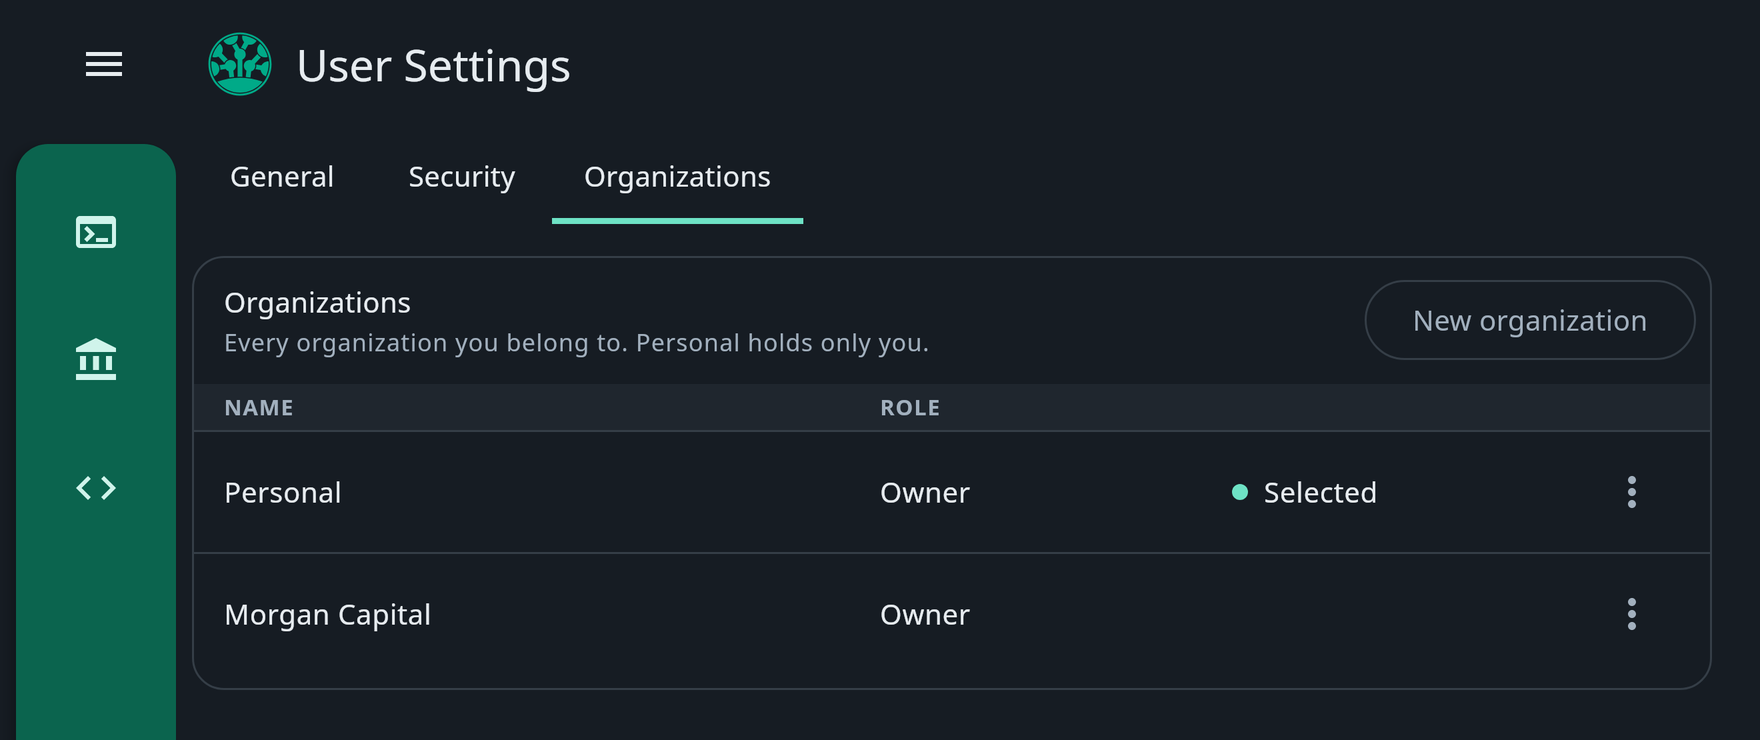
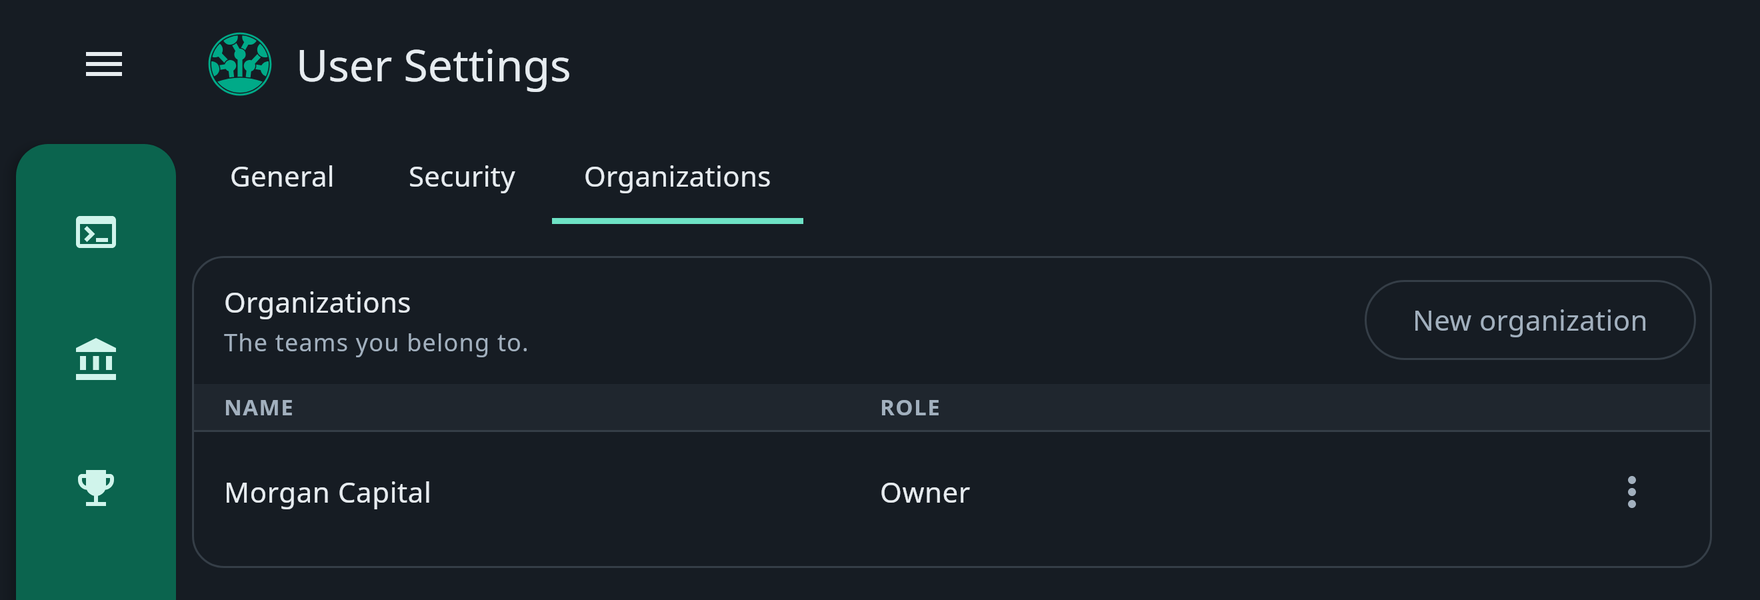
Refresh documentation from plurex 5fb26f5: a tenant is a user or an organisation
The docs now describe two kinds of tenant, you and the organisations you share with a team,
and never a personal organisation; the app stopped presenting one, so the Organizations list
and its screenshot follow. Every screenshot is recaptured upstream for the new sidebar.

diff --git a/scripts/sync-app-screenshots.py b/scripts/sync-app-screenshots.py
@@ -32,7 +32,7 @@ SHOTS = {
     "accounts/account/overview": None,
     "settings/general": (0, 0, 880, 310),
     "settings/security": (0, 0, 880, 660),
-    "settings/organizations": (0, 0, 880, 370),
+    "settings/organizations": (0, 0, 880, 300),
     "organization/overview": (0, 0, 1440, 320),
     "organization/members": (0, 0, 880, 330),
     "organization/member-access": (440, 153, 1000, 747),

diff --git a/refresh-log/2026-11-09-bc27a4c-5fb26f5.md b/refresh-log/2026-11-09-bc27a4c-5fb26f5.md
@@ -1,0 +1,31 @@
+# Refresh 2026-11-09: bc27a4c..5fb26f5
+
+- Mode: incremental, range `bc27a4cc6..5fb26f5` (2 commits).
+- Upstream: `git@github.com:Plurex/plurex.git`, `origin/main` = `5fb26f5`.
+- Spec: unchanged. 54 operations generated, 10 of them streams; no generated page changed.
+- Screenshots: every one recaptured upstream, because the sidebar gained Competitions. 11 copied images changed; each
+  crop checked by eye, and `settings/organizations` cropped tighter now that it lists only teams. 15 synced.
+  `competitions/overview` is new upstream and not copied.
+- Procedure: by hand from `AGENTS.md` and `agent_plans/automated_docs_bootstrap.md`.
+- Behaviour traced to the commit messages and the app's strings.
+
+## Topics
+
+### The personal organisation is no longer shown
+
+User Settings, Organizations lists only teams ("The teams you belong to."), the switcher keeps **Personal** and the
+organisations, and the Organization page with Personal selected says you are working on your own. This matches the
+docs' two kinds of tenant, a user and an organisation, written in the previous change.
+
+Pages: `platform/organisations` (the Organizations list and its screenshot's alt text).
+
+The switcher's accessible label is now "Working as". It is not shown on screen, so the docs do not name it.
+
+### Not documented
+
+Competitions: a placeholder in the sidebar saying paper trading competitions are coming soon. Left out until it is
+built; it shows in the sidebar of the screenshots.
+
+### Spec feedback closed
+
+The personal organisation item landed. No open items.

diff --git a/AGENTS.md b/AGENTS.md
@@ -63,6 +63,8 @@ record the disagreement as spec feedback for plurex instead of papering over it.
   them. A member's access uses the same editor as a key's: link to `platform/api-keys` instead of repeating it. The
   app's labels are American (**Organization**, **New organization**); bold them as the app spells them, and write
   "organisation" in prose.
+- There are two kinds of tenant: a user and an organisation. Never describe a user as having a personal or shadow
+  organisation. The switcher's **Personal** is you, working as yourself.
 
 ## Vocabulary
 
@@ -78,7 +80,7 @@ Use the public words:
 | A request type such as GetOrder | an **operation**; its alternatives (ById, ByClientOrderId) are **variants** |
 | Always-available operations | **always supported** |
 | Plurex's continuous data for a market | Plurex's **live feed** for the market |
-| The owner of accounts and API keys | the **tenant**, which is an **organisation** in the app (Personal or a team) |
+| The owner of accounts and API keys | the **tenant**: a user (you) or an **organisation** |
 | The real host a paper host simulates | the **model host** (`modelHostId`) |
 | A host market's limits | the market's **order rules** |
 | Paper funding events | **funding times** |
